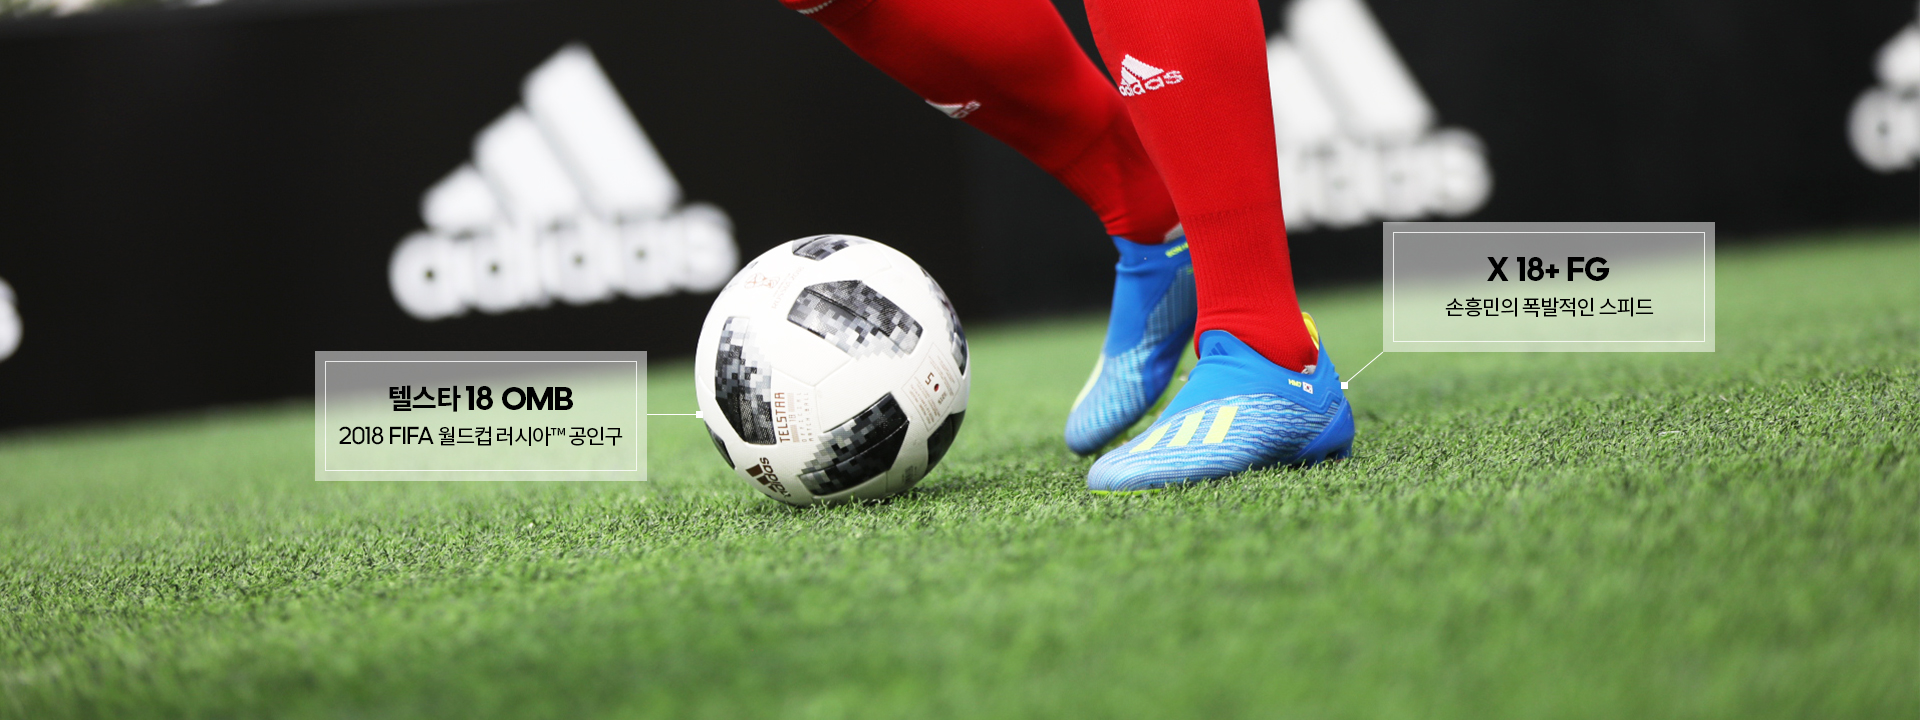
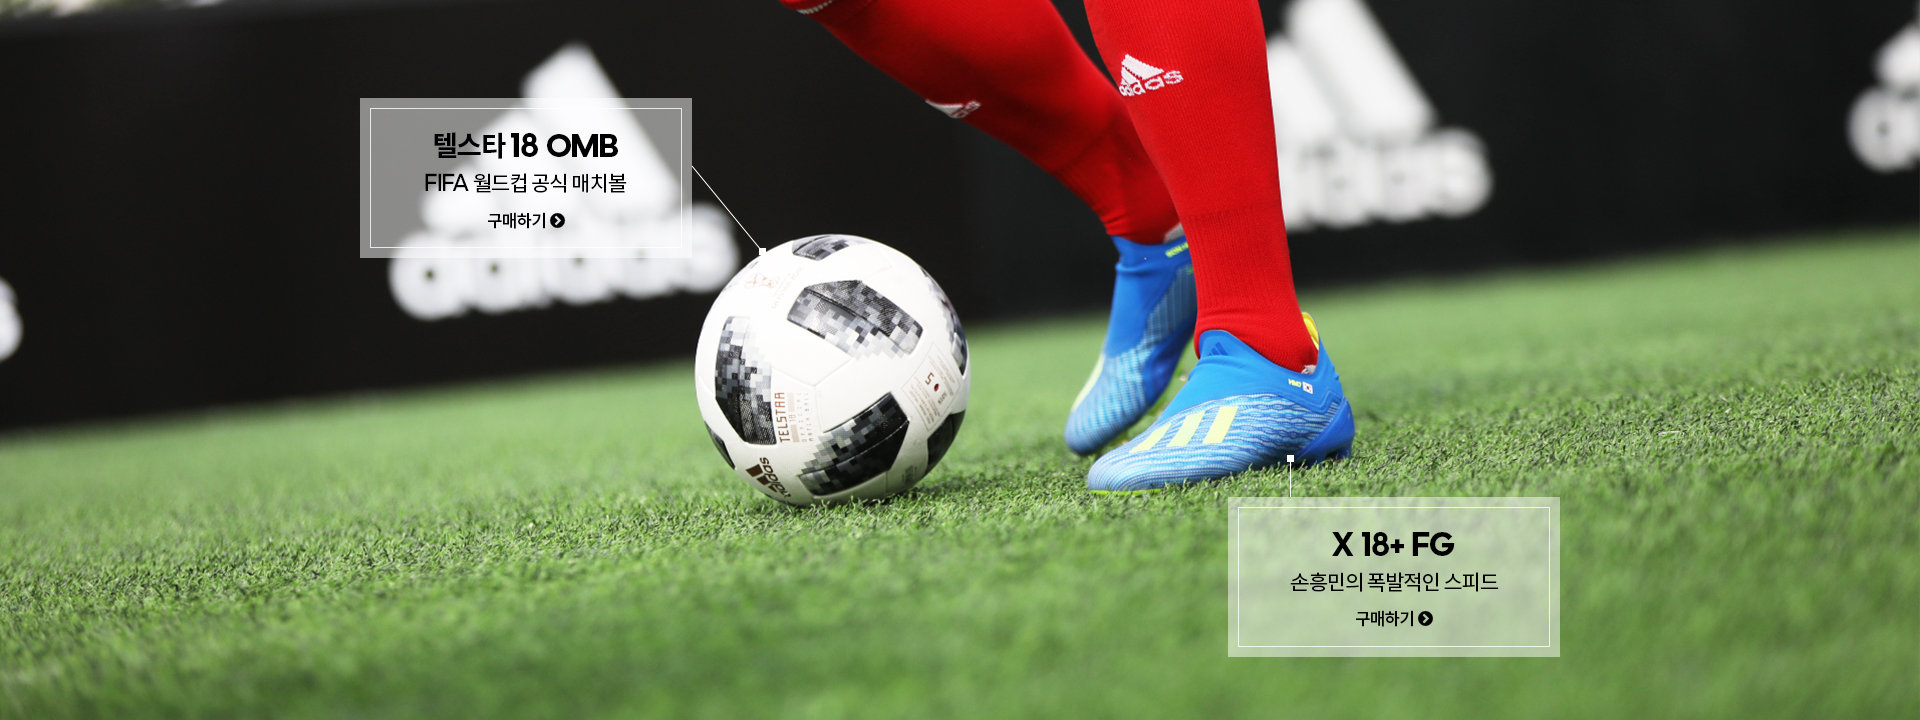
- son

diff --git a/app/html/adidas/event/football/football_son/build/index.html b/app/html/adidas/event/football/football_son/build/index.html
@@ -1018,8 +1018,8 @@
 
 					<div class="team_section">
 						<div class="team_btn">
-							<a href="javascript:void(0)" class="on">EP <em>1</em></a>
-							<a href="javascript:void(0)">EP <em>2</em></a>
+							<a href="javascript:void(0)">EP <em>1</em></a>
+							<a href="javascript:void(0)" class="on">EP <em>2</em></a>
 							<a href="javascript:void(0)">EP <em>3</em></a>
 							<a href="javascript:void(0)">EP <em>4</em></a>
 							<a href="javascript:void(0)">EP <em>5</em></a>
@@ -1043,7 +1043,7 @@
 											<div class="img"><img src="/images/adidas/event/football/football_son/son_con_02.jpg" alt=""></div>
 										</div>
 										<div class="video">
-											<a href="javascript:void(0)" class="video-button play-video" data-video-id="l3eT96rMrr8"></a>
+											<a href="javascript:void(0)" class="video-button play-video" data-video-id="9h5PdOEsUYw"></a>
 											<div class="img"><img src="/images/adidas/event/football/football_son/son_video_01.jpg" alt=""></div>
 										</div>
 									</li>
@@ -1068,7 +1068,13 @@
 					</div>
 
 					<div class="allbuy_area">
-						<div class="bg"><img src="/images/adidas/event/football/football_son/buy_area.jpg" alt=""></div>
+						<div class="bg">
+							<img src="/images/adidas/event/football/football_son/buy_area.jpg" usemap="#son_prd" alt="">
+							<map id="son_prd" name="son_prd">
+								<area shape="rect" coords="368,106,678,248" href="http://shop.adidas.co.kr/PF020401.action?PROD_CD=CE8083" alt="텔스타 18 OMB FIFA 월드컵 공식 매치볼">
+								<area shape="rect" coords="1238,506,1548,646" href="http://shop.adidas.co.kr/PF020401.action?PROD_CD=CM8358" alt="X 18+ FG 손흥민 축구화">
+							</map>
+						</div>
 						<a href="http://shop.adidas.co.kr/PF020204.action?S_BRAND_CD=1&S_CTGR_CD=01004001001" class="btn-ctm arrow">
 							<span>축구 제품 모두 보기<span class="spt_bg"></span></span>
 						</a>

diff --git a/app/html/adidas/event/football/football_son/index.html b/app/html/adidas/event/football/football_son/index.html
@@ -1016,8 +1016,8 @@
 
 					<div class="team_section">
 						<div class="team_btn">
-							<a href="javascript:void(0)" class="on">EP <em>1</em></a>
-							<a href="javascript:void(0)">EP <em>2</em></a>
+							<a href="javascript:void(0)">EP <em>1</em></a>
+							<a href="javascript:void(0)" class="on">EP <em>2</em></a>
 							<a href="javascript:void(0)">EP <em>3</em></a>
 							<a href="javascript:void(0)">EP <em>4</em></a>
 							<a href="javascript:void(0)">EP <em>5</em></a>
@@ -1041,7 +1041,7 @@
 											<div class="img"><img src="/images/adidas/event/football/football_son/son_con_02.jpg" alt=""></div>
 										</div>
 										<div class="video">
-											<a href="javascript:void(0)" class="video-button play-video" data-video-id="l3eT96rMrr8"></a>
+											<a href="javascript:void(0)" class="video-button play-video" data-video-id="9h5PdOEsUYw"></a>
 											<div class="img"><img src="/images/adidas/event/football/football_son/son_video_01.jpg" alt=""></div>
 										</div>
 									</li>
@@ -1066,7 +1066,13 @@
 					</div>
 
 					<div class="allbuy_area">
-						<div class="bg"><img src="/images/adidas/event/football/football_son/buy_area.jpg" alt=""></div>
+						<div class="bg">
+							<img src="/images/adidas/event/football/football_son/buy_area.jpg" usemap="#son_prd" alt="">
+							<map id="son_prd" name="son_prd">
+								<area shape="rect" coords="368,106,678,248" href="http://shop.adidas.co.kr/PF020401.action?PROD_CD=CE8083" alt="텔스타 18 OMB FIFA 월드컵 공식 매치볼">
+								<area shape="rect" coords="1238,506,1548,646" href="http://shop.adidas.co.kr/PF020401.action?PROD_CD=CM8358" alt="X 18+ FG 손흥민 축구화">
+							</map>
+						</div>
 						<a href="http://shop.adidas.co.kr/PF020204.action?S_BRAND_CD=1&S_CTGR_CD=01004001001" class="btn-ctm arrow">
 							<span>축구 제품 모두 보기<span class="spt_bg"></span></span>
 						</a>
